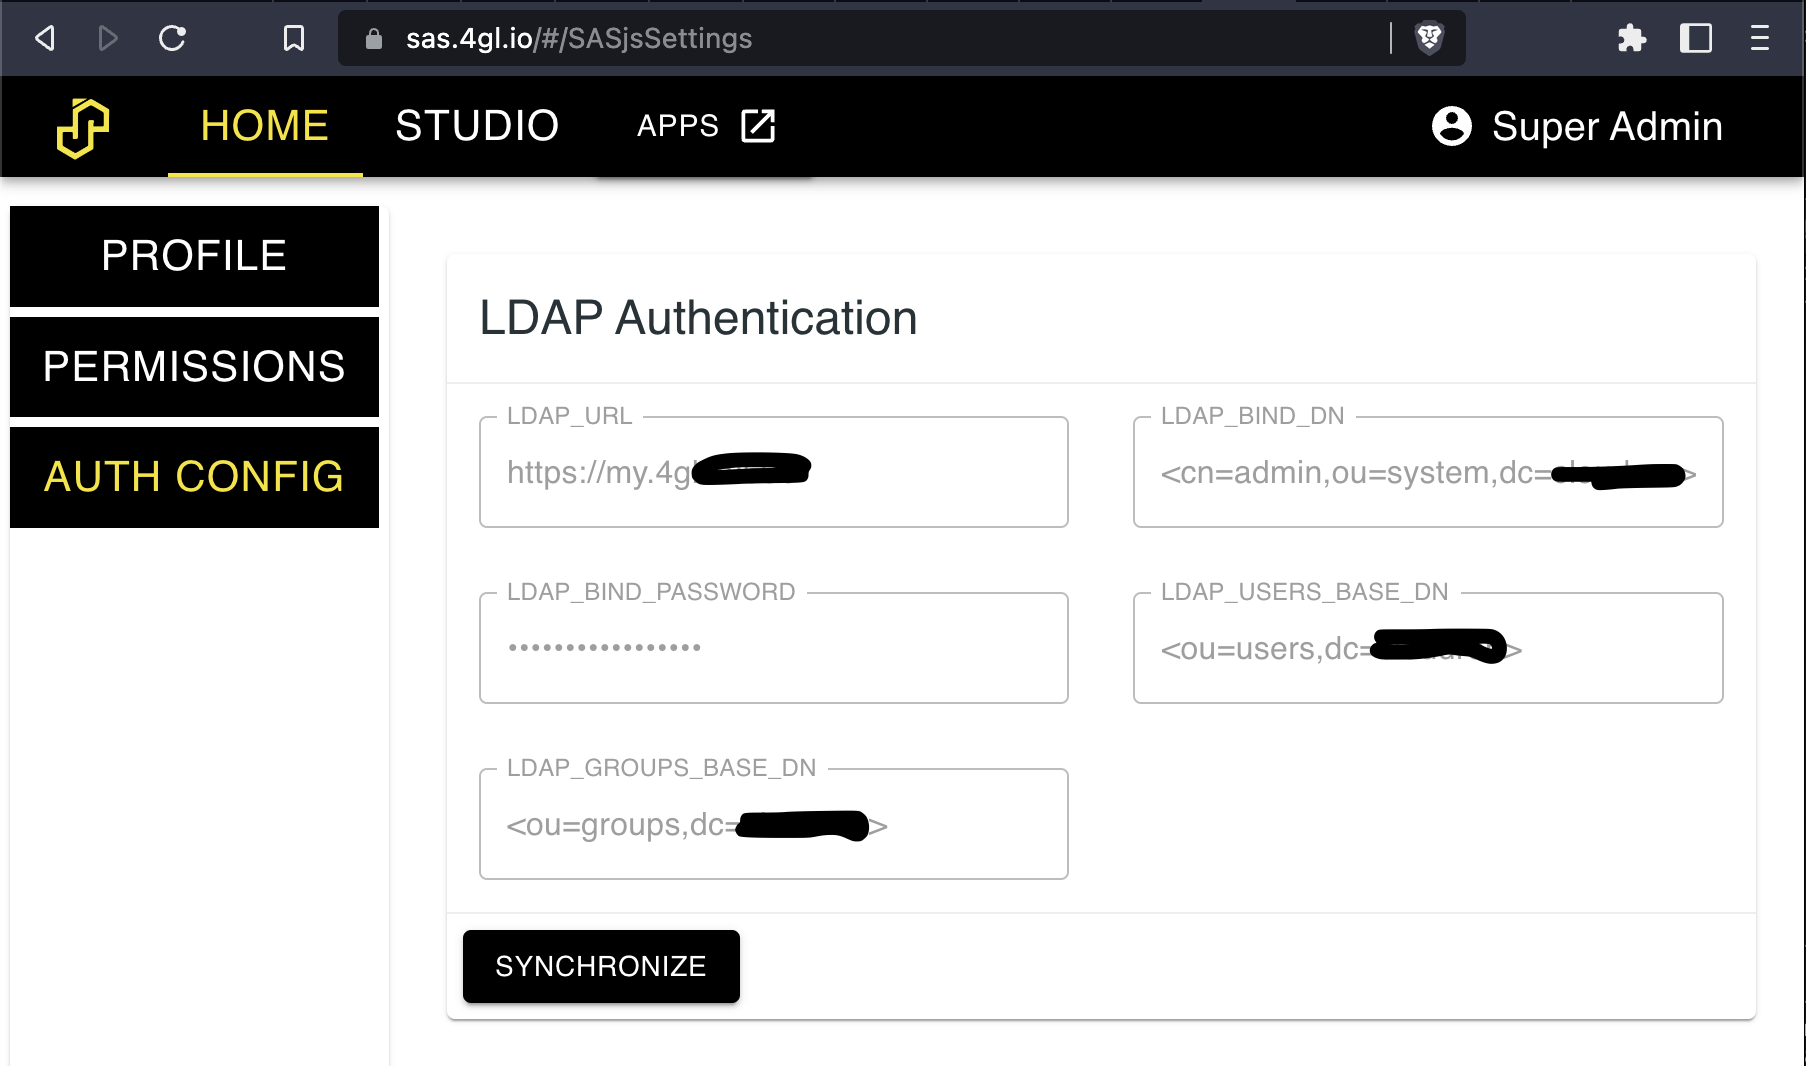
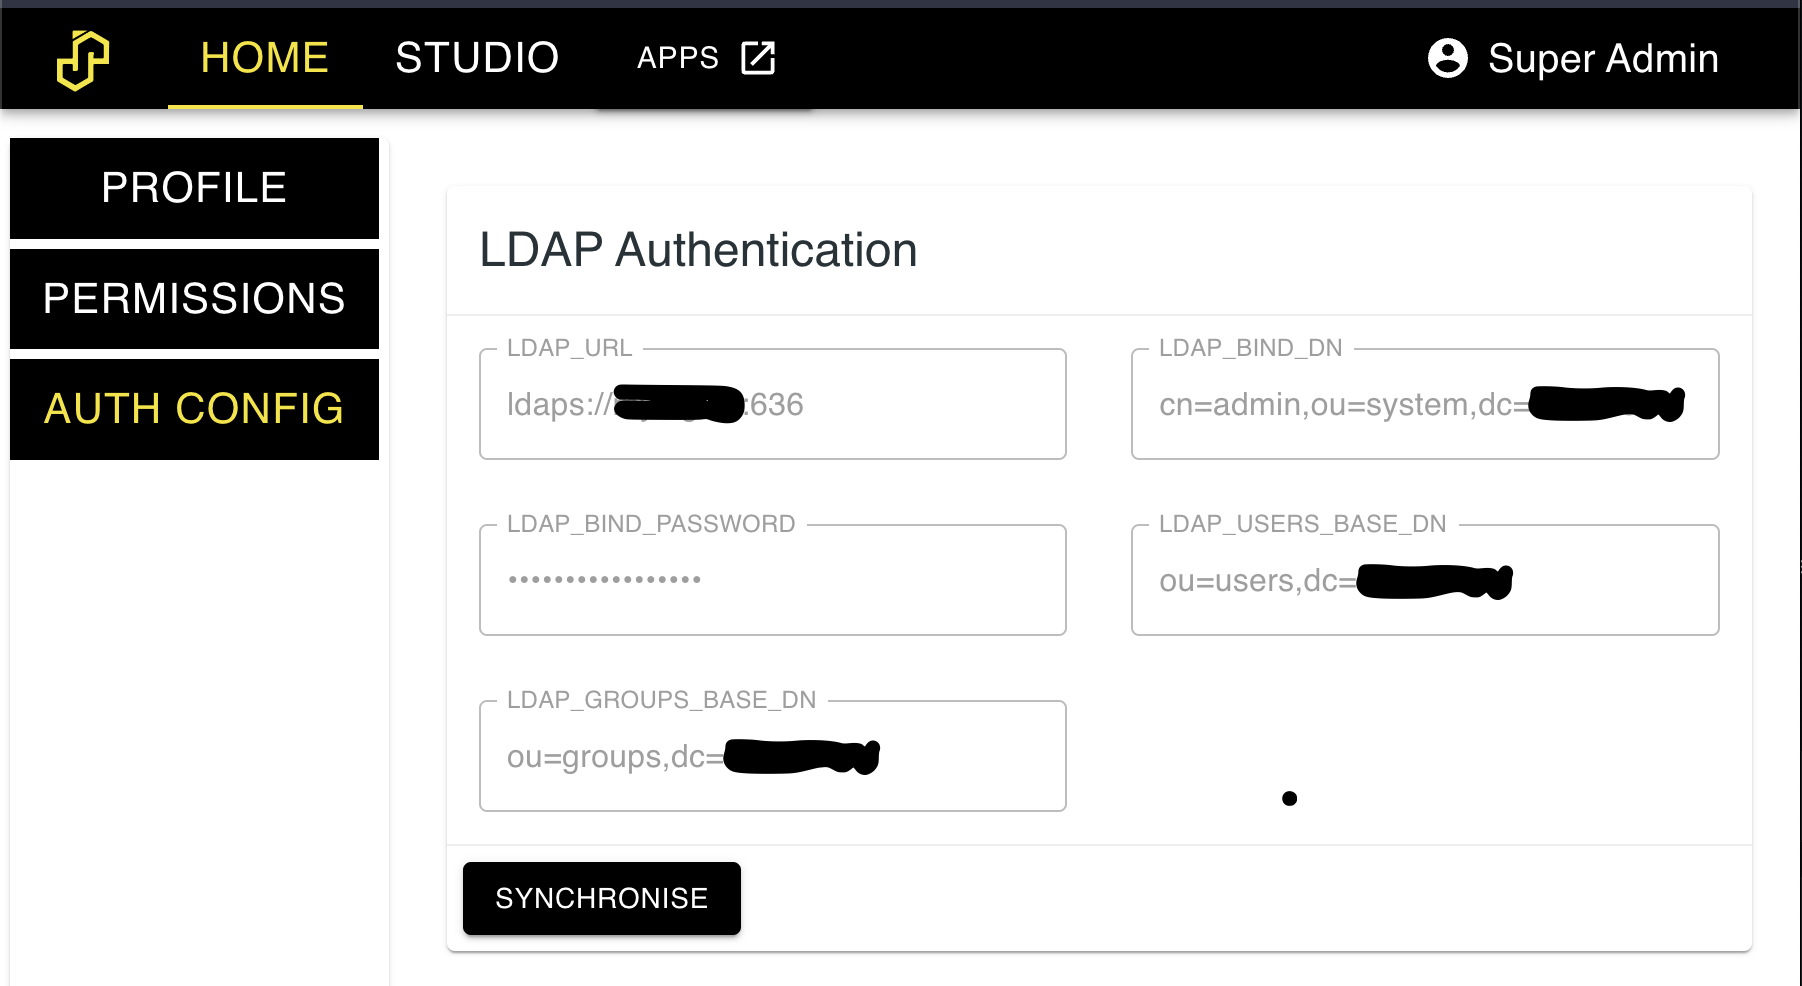
fix: correct config

diff --git a/docs/auth.md b/docs/auth.md
@@ -25,11 +25,11 @@ Configuration is made in the following `.env` settings:
 
 ```
 AUTH_PROVIDERS=ldap
-LDAP_URL= <LDAP_SERVER_URL>
-LDAP_BIND_DN= <cn=admin,ou=system,dc=cloudron>
+LDAP_URL= ldaps://LDAP_SERVER_URL:PORT
+LDAP_BIND_DN= cn=admin,ou=system,dc=companyname
 LDAP_BIND_PASSWORD = <password>
-LDAP_USERS_BASE_DN = <ou=users,dc=cloudron>
-LDAP_GROUPS_BASE_DN = <ou=groups,dc=cloudron>
+LDAP_USERS_BASE_DN = ou=users,dc=companyname
+LDAP_GROUPS_BASE_DN = ou=groups,dc=companyname
 ```
 
 Next, restart the server and log in with the admin user. Navigate to the settings tab.  You should see a screen like the below.  Import the users & groups by clicking the 'synchronise' button.

diff --git a/docs/settings.md b/docs/settings.md
@@ -107,14 +107,14 @@ The URL of the LDAP directory server.
 
 Example:
 ```
-LDAP_URL= <LDAP_SERVER_URL>
+LDAP_URL= ldaps://LDAP_SERVER_URL:PORT
 ```
 
 ### LDAP_BIND_DN
 
 Example:
 ```
-LDAP_BIND_DN= <cn=admin,ou=system,dc=cloudron>
+LDAP_BIND_DN=cn=admin,ou=system,dc=companyname
 ```
 
 ### LDAP_BIND_PASSWORD 
@@ -129,13 +129,13 @@ LDAP_BIND_PASSWORD = <password>
 ### LDAP_USERS_BASE_DN
 
 ```
-LDAP_USERS_BASE_DN = <ou=users,dc=cloudron>
+LDAP_USERS_BASE_DN = ou=users,dc=companyname
 ```
 
 ### LDAP_GROUPS_BASE_DN
 
 ```
-LDAP_GROUPS_BASE_DN = <ou=groups,dc=cloudron>
+LDAP_GROUPS_BASE_DN = ou=groups,dc=companyname
 ```
 
 ### LOG_FORMAT_MORGAN
